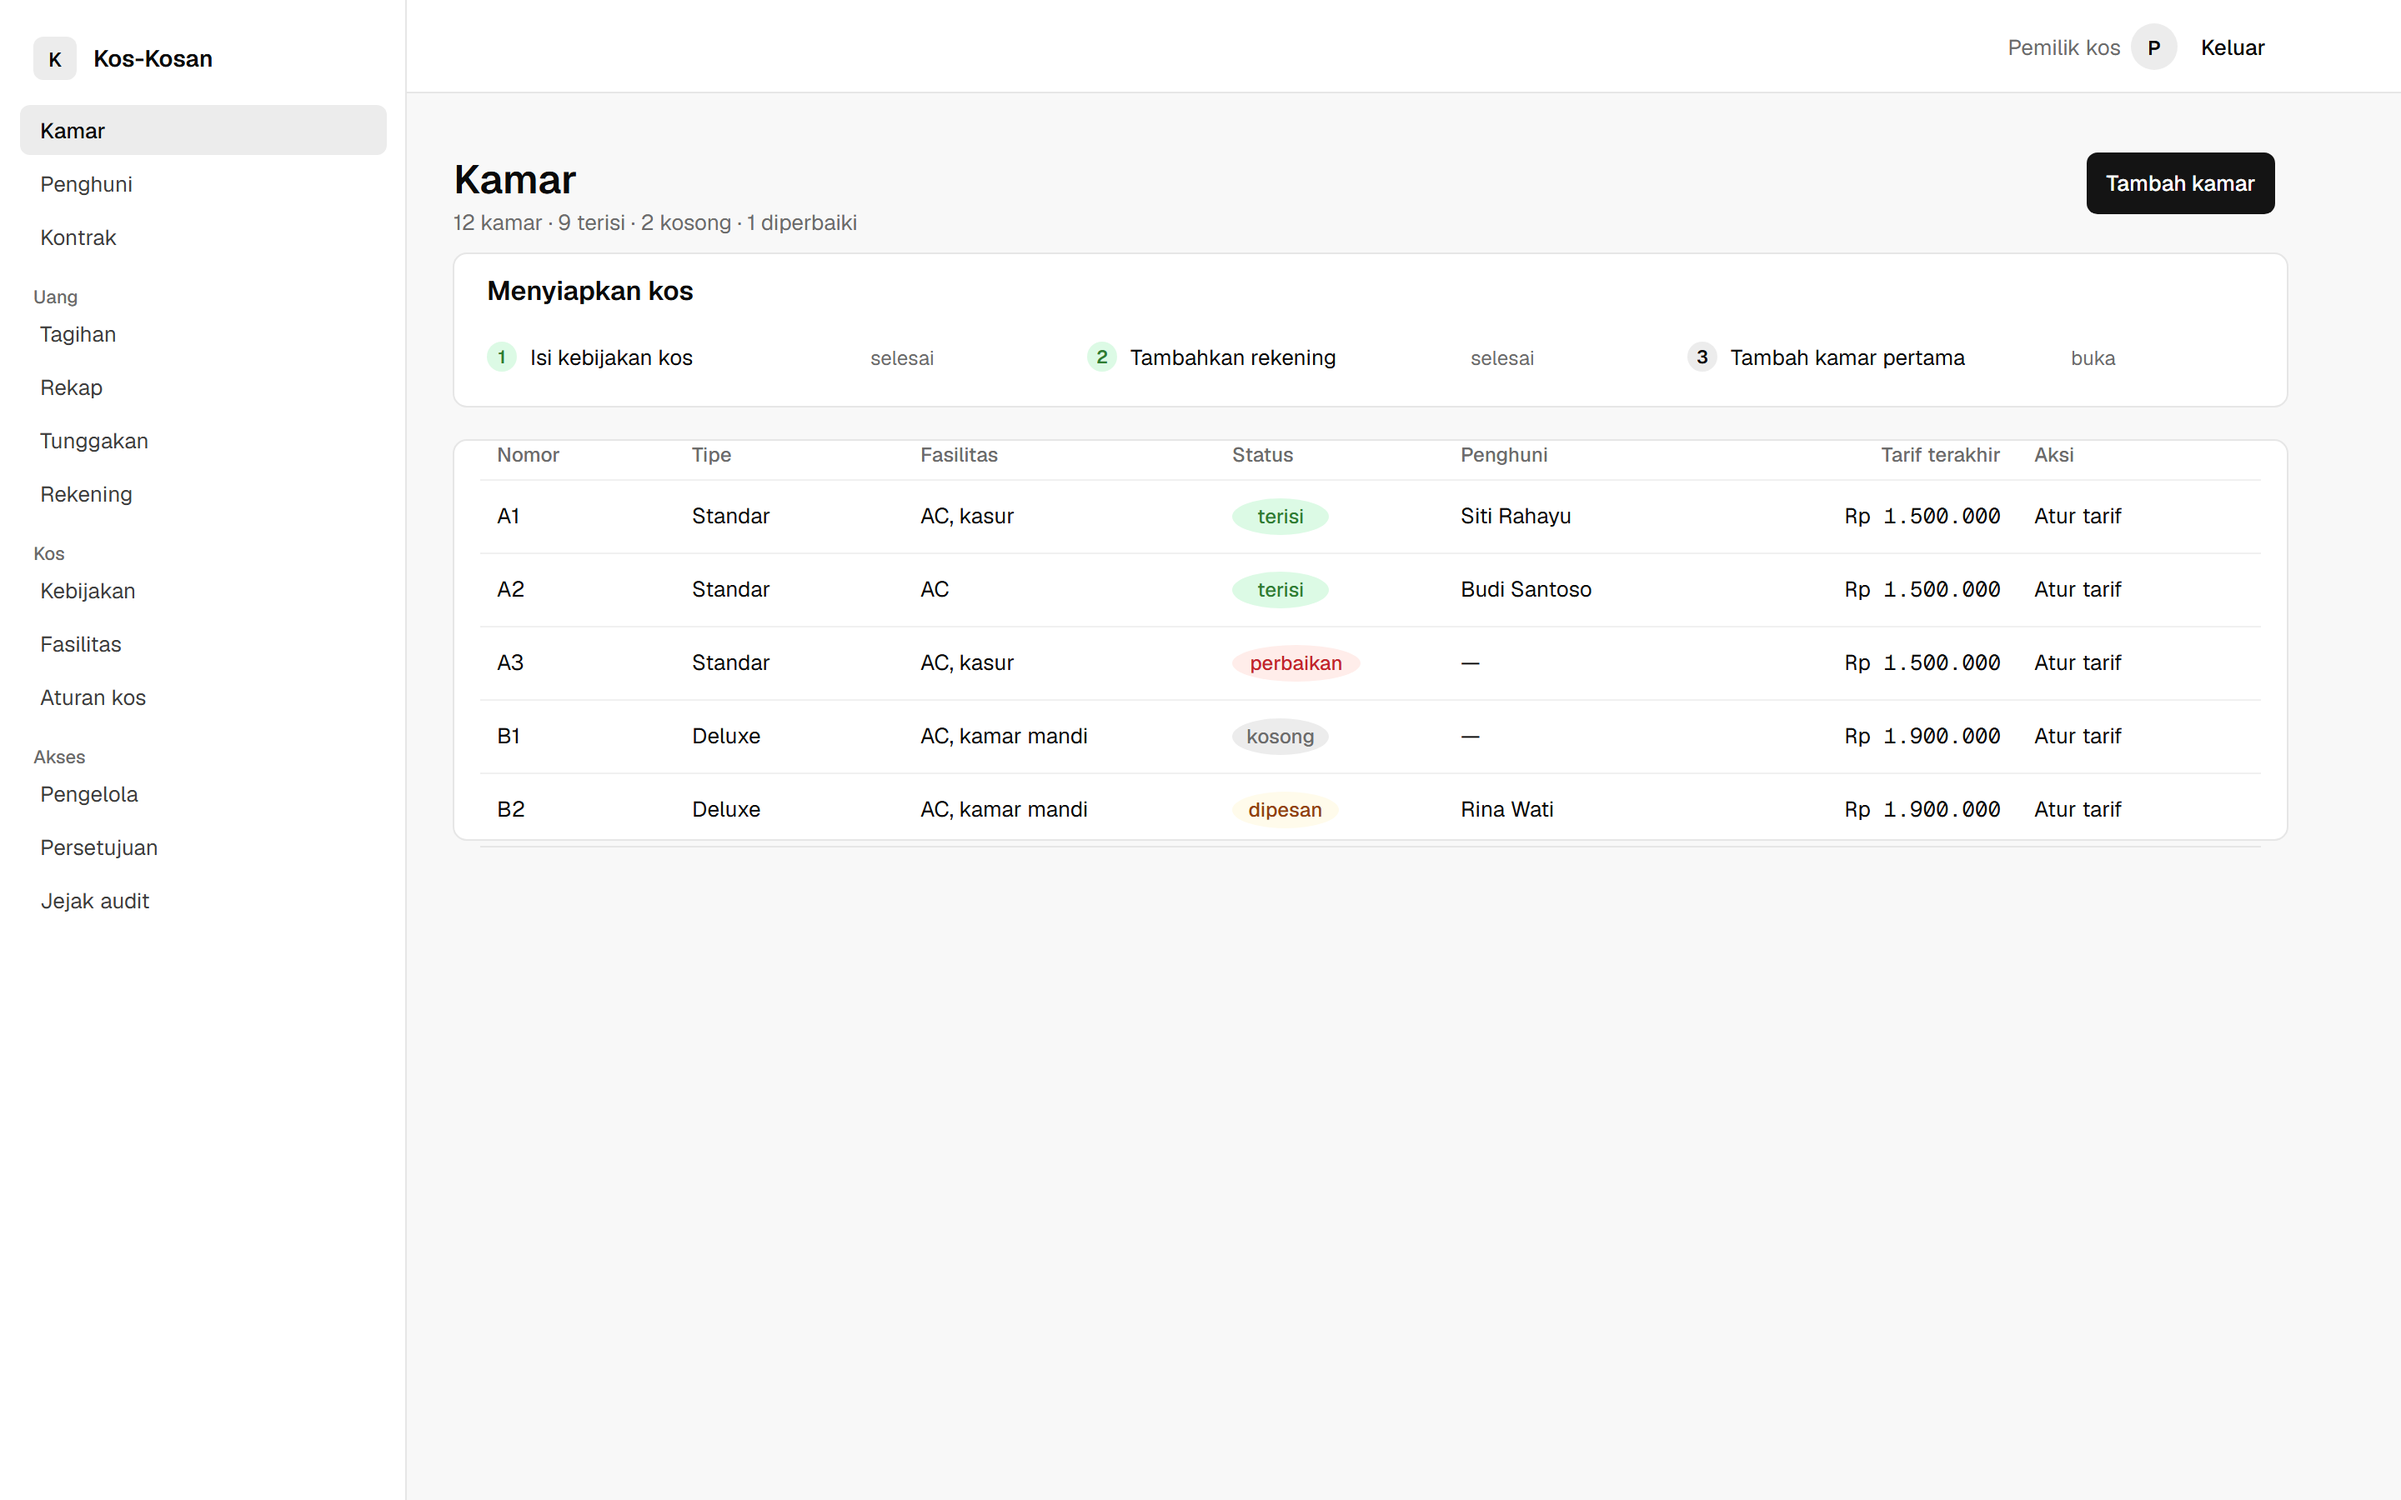
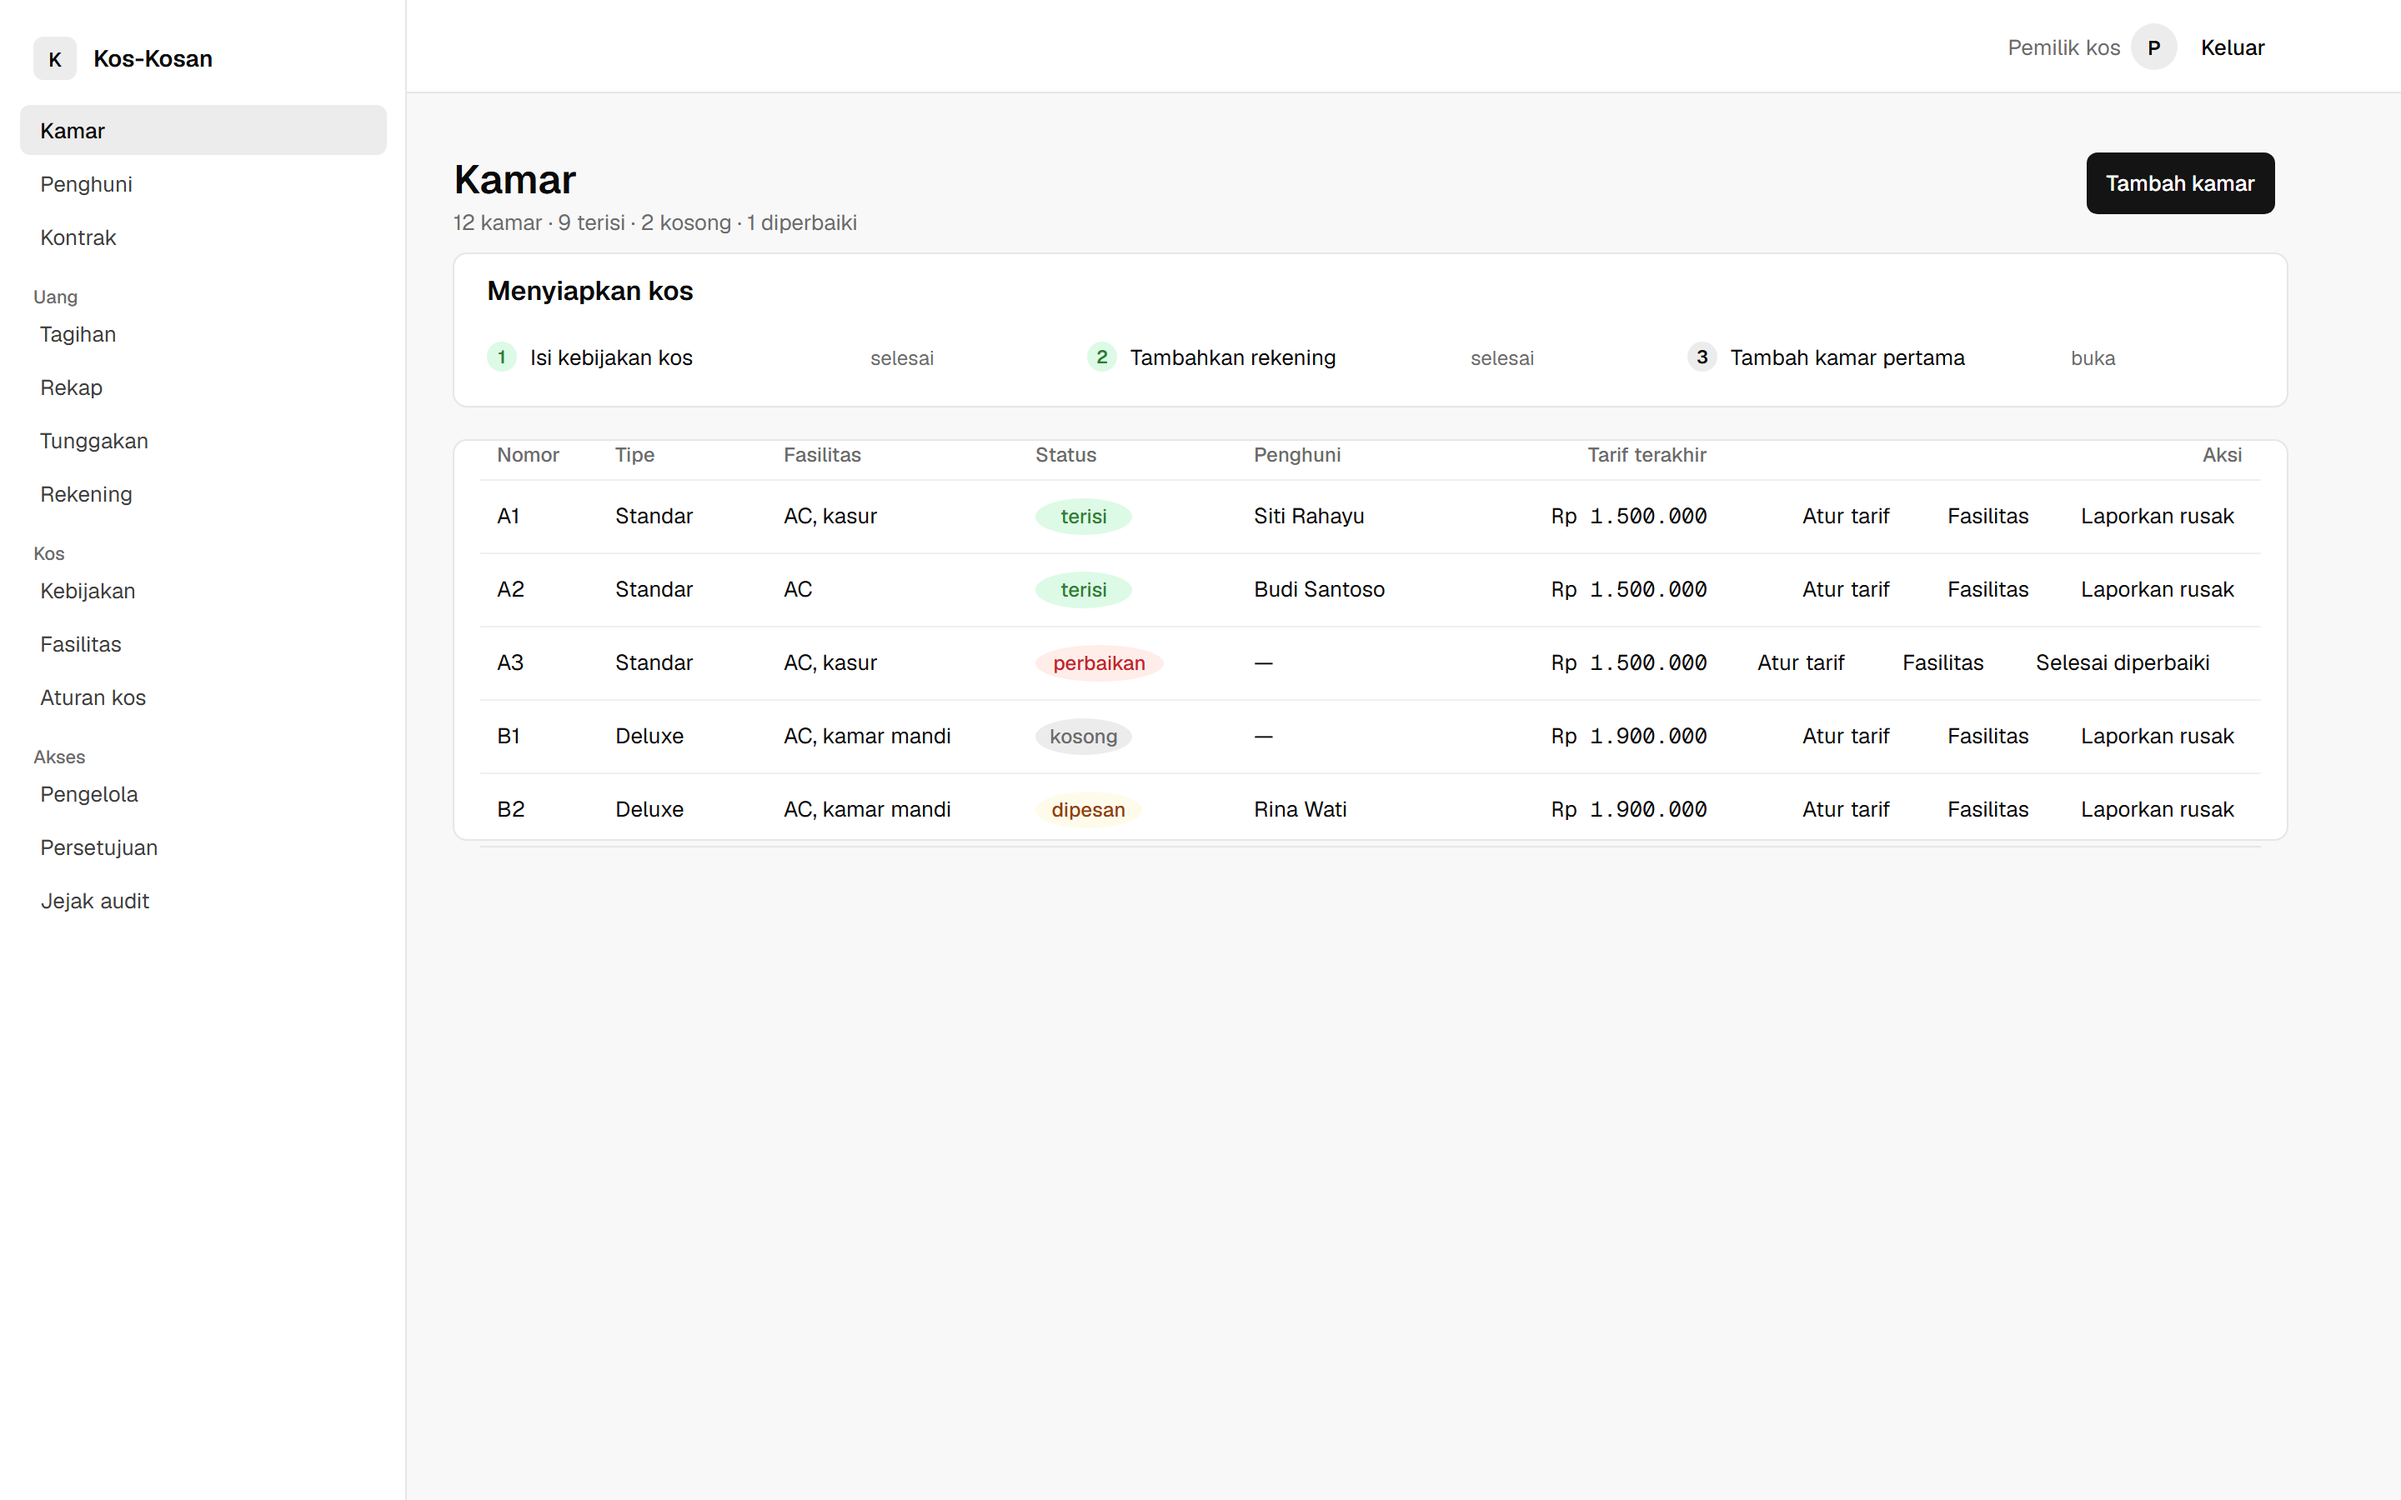
docs: lengkapi kolom Aksi di mockup Kamar dengan tombol yang benar-benar ada
`KamarView.vue` merender tiga tombol di kolom Aksi - "Atur tarif", "Fasilitas",
"Laporkan rusak" - dan mengganti yang terakhir dengan "Selesai diperbaiki" pada
kamar berstatus perbaikan. Mockup hanya menggambar "Atur tarif", jadi gambar dan
aplikasi akan berbeda saat dibuka berdampingan.

`tabel()` menerima sel berupa array dan menggambarnya sebagai tautan berjarak.
Lebar kolom dihitung ulang supaya "Selesai diperbaiki" (yang terpanjang) masih
muat di baris A3.

diff --git a/docs/desain/build-mockup.js b/docs/desain/build-mockup.js
@@ -123,9 +123,15 @@ function badge(x, y, kunci) {
   ].join('');
 }
 
+/** Perkiraan lebar teks 13px, cukup untuk merenggangkan tautan dalam satu sel.
+ *  Huruf Geist proporsional, jadi ini tebakan - bukan angka yang diukur. */
+const lebarTeks = (s) => Math.round(String(s).length * 6.9);
+
 /**
  * Tabel. `kolom` = [{ label, w, kanan, mono }], lebar kolom dijumlahkan
- * lalu sisanya dibagi rata bila totalnya kurang dari `lebar`.
+ * lalu sisanya dibagi rata bila totalnya kurang dari `lebar`. Sebuah sel boleh
+ * berupa array, dan isinya digambar sebagai beberapa tautan berjarak - dipakai
+ * kolom Aksi yang di aplikasi berisi tiga tombol.
  */
 function tabel(x, y, lebar, kolom, baris, { tinggiBaris = 44 } = {}) {
   const total = kolom.reduce((a, k) => a + k.w, 0);
@@ -153,6 +159,14 @@ function tabel(x, y, lebar, kolom, baris, { tinggiBaris = 44 } = {}) {
       const tx = k.kanan ? k.x + k.w - 10 : k.x + 10;
       if (k.badge && BADGE[nilai]) {
         keluar.push(badge(k.x + 10, ry + 11, nilai));
+      } else if (Array.isArray(nilai)) {
+        const jarak = 18;
+        const lebarIsi = nilai.reduce((a, s, n) => a + lebarTeks(s) + (n ? jarak : 0), 0);
+        let lx = k.kanan ? k.x + k.w - 10 - lebarIsi : k.x + 10;
+        nilai.forEach((s) => {
+          keluar.push(t(lx, ry + 26, s, { size: 13, fill: C.ink }));
+          lx += lebarTeks(s) + jarak;
+        });
       } else {
         keluar.push(
           t(tx, ry + 26, nilai, { size: 13, fill: C.ink, anchor: k.kanan ? 'end' : 'start', mono: k.mono }),
@@ -270,20 +284,20 @@ function layarKamar() {
   });
 
   const kolom = [
-    { label: 'Nomor', w: 90 },
-    { label: 'Tipe', w: 110 },
-    { label: 'Fasilitas', w: 160 },
-    { label: 'Status', w: 110, badge: true },
-    { label: 'Penghuni', w: 160 },
-    { label: 'Tarif terakhir', w: 130, kanan: true, mono: true },
-    { label: 'Aksi', w: 120 },
+    { label: 'Nomor', w: 70 },
+    { label: 'Tipe', w: 100 },
+    { label: 'Fasilitas', w: 150 },
+    { label: 'Status', w: 130, badge: true },
+    { label: 'Penghuni', w: 150 },
+    { label: 'Tarif terakhir', w: 140, kanan: true, mono: true },
+    { label: 'Aksi', w: 320, kanan: true },
   ];
   const baris = [
-    ['A1', 'Standar', 'AC, kasur', 'terisi', 'Siti Rahayu', 'Rp 1.500.000', 'Atur tarif'],
-    ['A2', 'Standar', 'AC', 'terisi', 'Budi Santoso', 'Rp 1.500.000', 'Atur tarif'],
-    ['A3', 'Standar', 'AC, kasur', 'perbaikan', '—', 'Rp 1.500.000', 'Atur tarif'],
-    ['B1', 'Deluxe', 'AC, kamar mandi', 'kosong', '—', 'Rp 1.900.000', 'Atur tarif'],
-    ['B2', 'Deluxe', 'AC, kamar mandi', 'dipesan', 'Rina Wati', 'Rp 1.900.000', 'Atur tarif'],
+    ['A1', 'Standar', 'AC, kasur', 'terisi', 'Siti Rahayu', 'Rp 1.500.000', ['Atur tarif', 'Fasilitas', 'Laporkan rusak']],
+    ['A2', 'Standar', 'AC', 'terisi', 'Budi Santoso', 'Rp 1.500.000', ['Atur tarif', 'Fasilitas', 'Laporkan rusak']],
+    ['A3', 'Standar', 'AC, kasur', 'perbaikan', '—', 'Rp 1.500.000', ['Atur tarif', 'Fasilitas', 'Selesai diperbaiki']],
+    ['B1', 'Deluxe', 'AC, kamar mandi', 'kosong', '—', 'Rp 1.900.000', ['Atur tarif', 'Fasilitas', 'Laporkan rusak']],
+    ['B2', 'Deluxe', 'AC, kamar mandi', 'dipesan', 'Rina Wati', 'Rp 1.900.000', ['Atur tarif', 'Fasilitas', 'Laporkan rusak']],
   ];
   s.push(kotak(x, 264, 1100, 8 + baris.length * 44 + 12, { r: 8 }));
   s.push(tabel(x + 16, 288, 1068, kolom, baris));

diff --git a/docs/desain/rancangan-antarmuka.md b/docs/desain/rancangan-antarmuka.md
@@ -110,7 +110,10 @@ Sidebar + bilah atas + isi 1100 px.
 - Tabel: **Nomor · Tipe · Fasilitas · Status · Penghuni · Tarif terakhir · Aksi**
   - `Status` memakai pil: **terisi**, **kosong**, **dipesan**, **perbaikan**
   - `Tarif terakhir` rata kanan, huruf mono
-  - `Aksi` berisi tautan teks kecil: **Atur tarif**, **Fasilitas**, **Laporkan**
+  - `Aksi` berisi tautan teks kecil, diambil dari tombol yang benar-benar ada di
+    `KamarView.vue`: **Atur tarif · Fasilitas · Laporkan rusak**, dan
+    **Selesai diperbaiki** menggantikan yang terakhir pada kamar berstatus
+    `perbaikan`
 
 ### 4.3 Kebijakan kos — `kebijakan.png`
 
